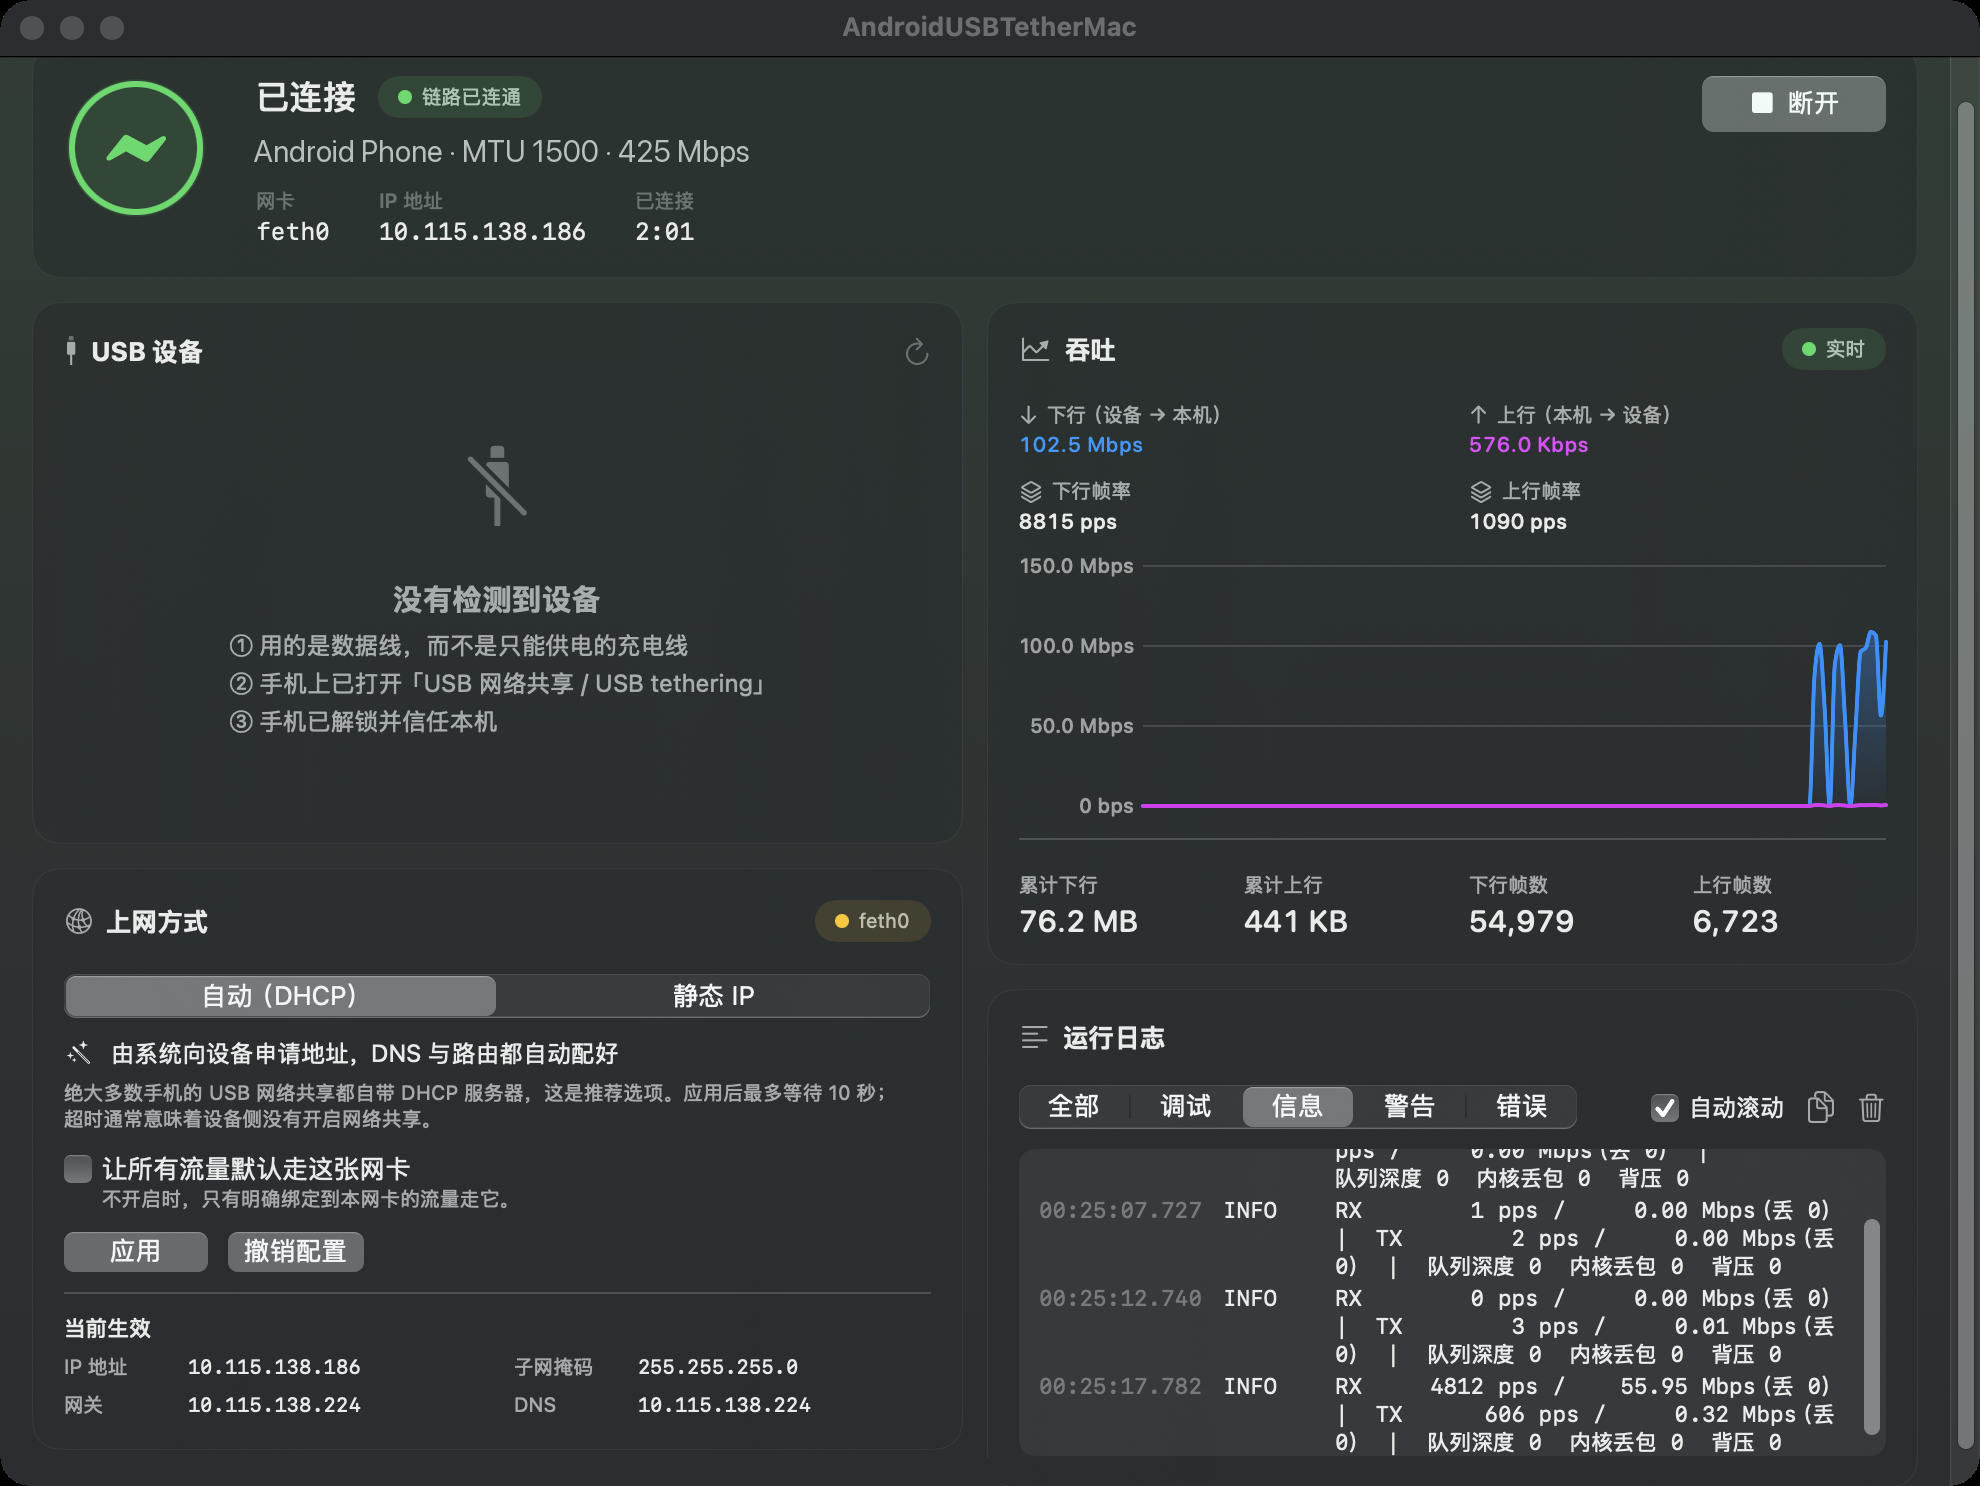
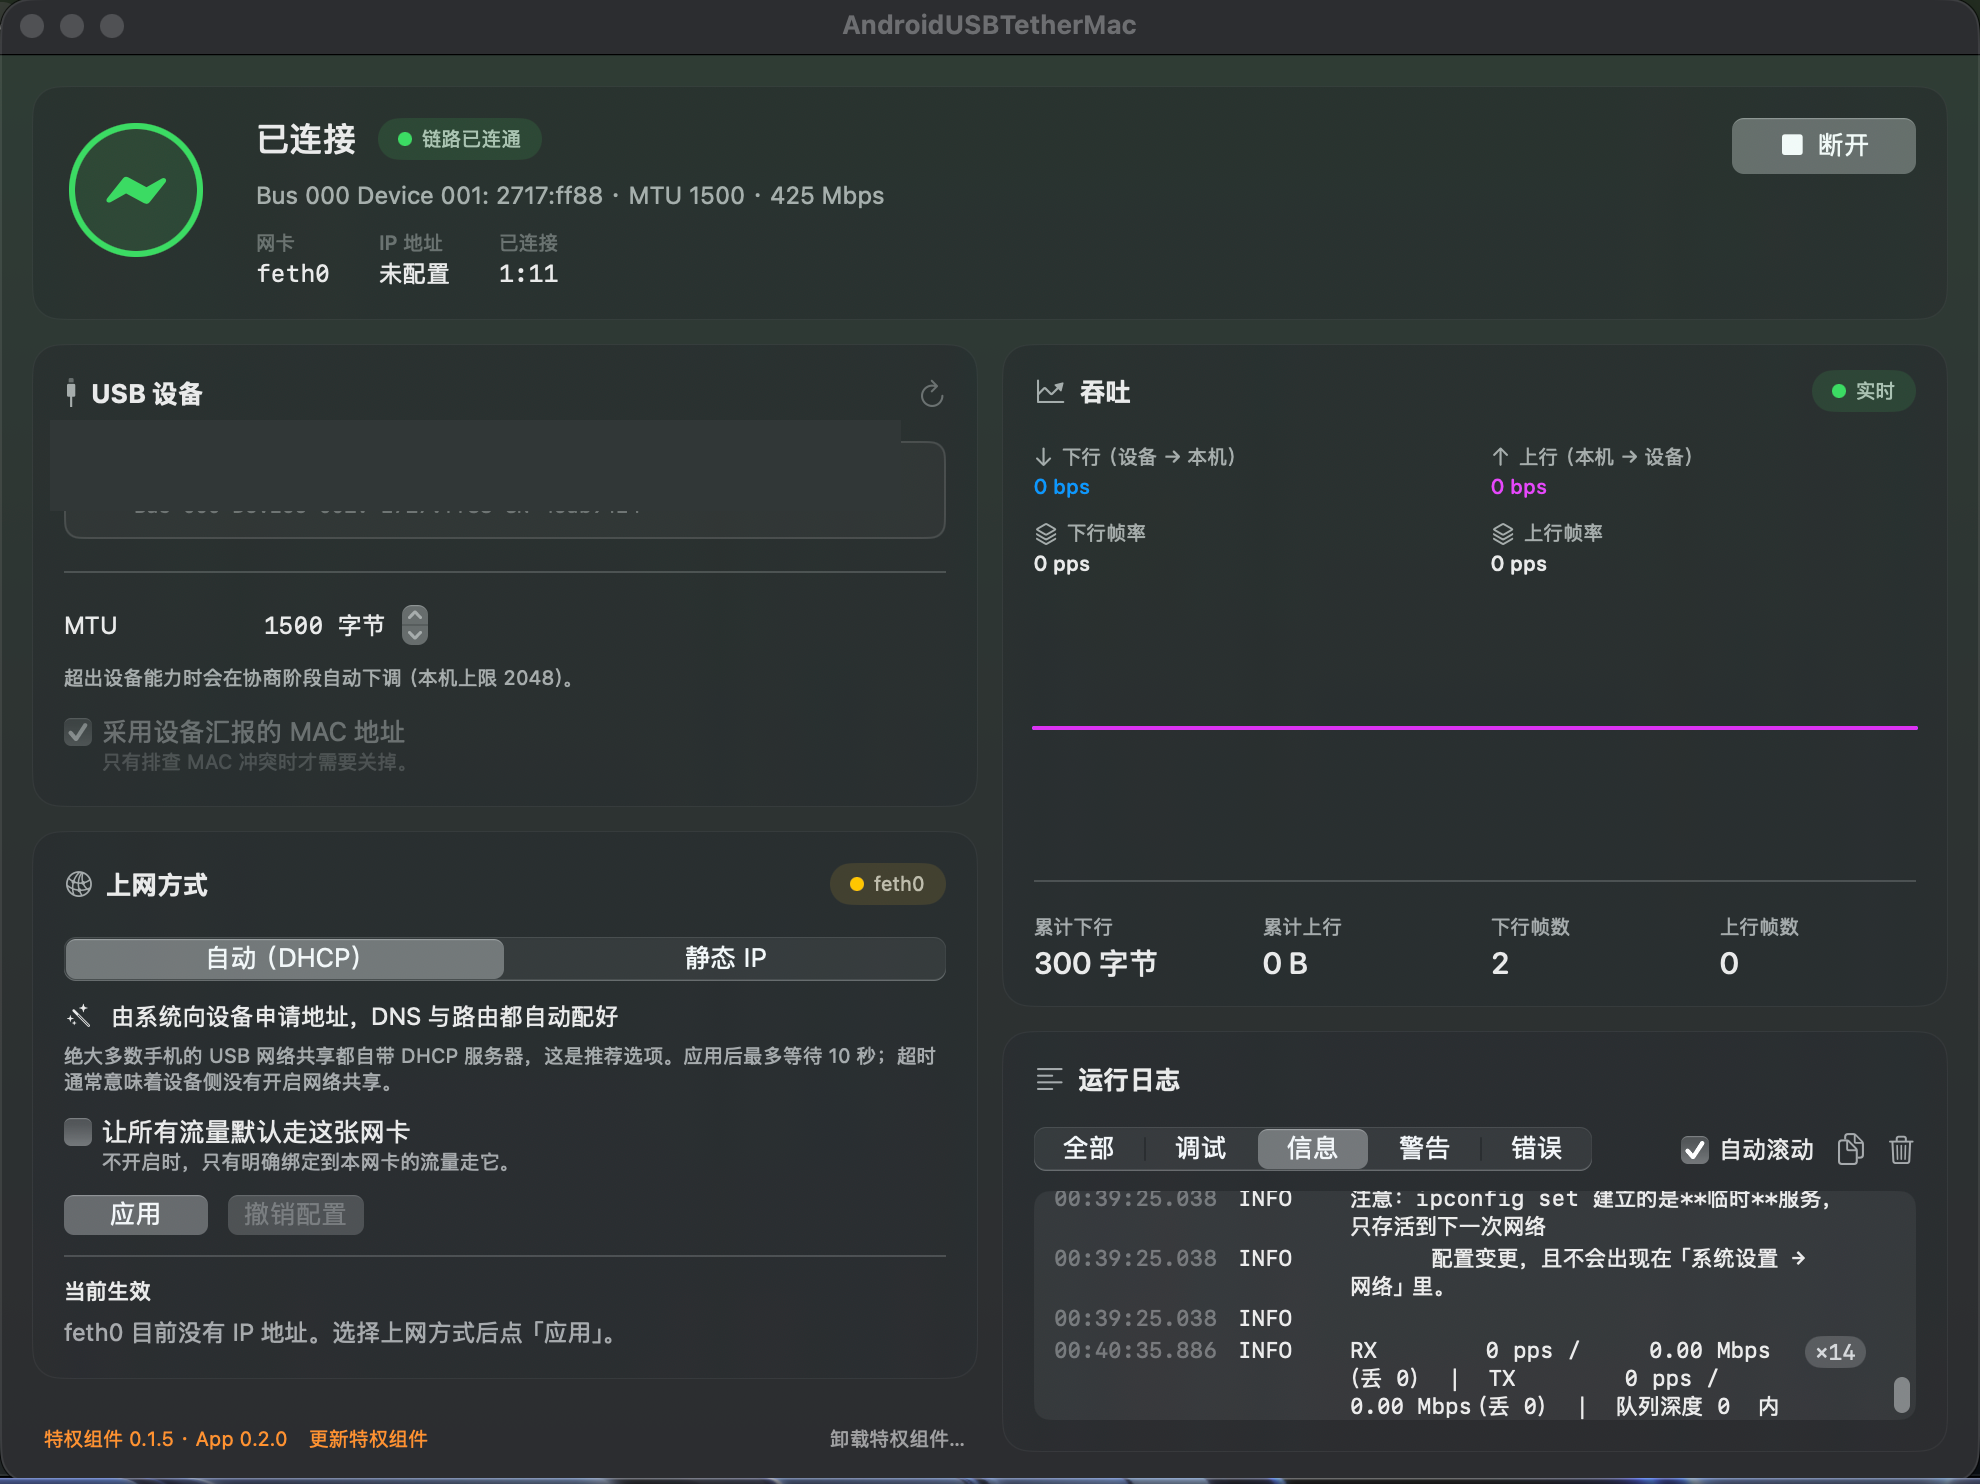
fix: README 截图改竖排；更新已连接截图（打码设备信息）

diff --git a/README.md b/README.md
@@ -6,9 +6,13 @@ Android USB tethering (RNDIS) for macOS, without a kernel extension.
 
 本仓库只发布安装包（Releases），不含源码。
 
-| 已连接 | 未连接 |
-|---|---|
-| ![已连接](screenshots/screenshot-connected.png) | ![未连接](screenshots/screenshot-disconnected.png) |
+**已连接**
+
+![已连接](screenshots/screenshot-connected.png)
+
+**未连接**
+
+![未连接](screenshots/screenshot-disconnected.png)
 
 ## 系统要求
 
